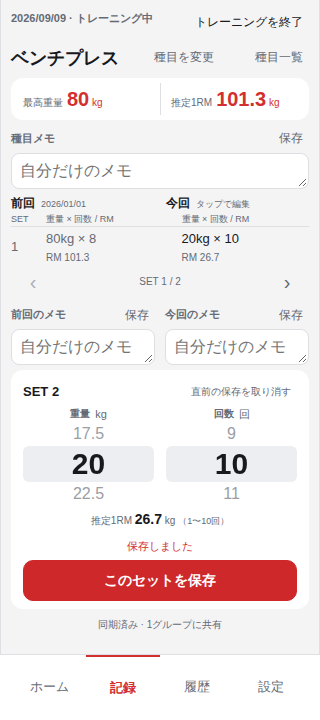
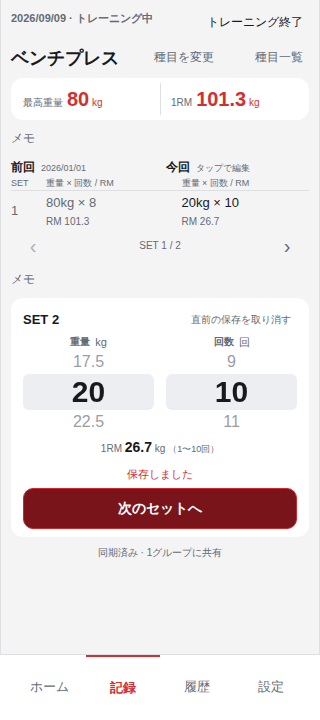
fix: 記録画面のメモ表示と操作文言を簡潔にする

diff --git a/frontend/src/features/session/inline-memo.tsx b/frontend/src/features/session/inline-memo.tsx
@@ -9,6 +9,7 @@ export function InlineMemo({
   name,
   userId,
   onSaved,
+  omitWhenEmpty = false,
 }: {
   title: string;
   path: string;
@@ -16,6 +17,7 @@ export function InlineMemo({
   name?: string;
   userId: string;
   onSaved?: () => void;
+  omitWhenEmpty?: boolean;
 }) {
   const key = `gotore:memo-input:v1:${userId}:${name ?? path}`;
   const [draft] = useState<Memo | null>(() => {
@@ -33,7 +35,11 @@ export function InlineMemo({
   const dirty = useRef(!!draft);
   const [busy, setBusy] = useState(false);
   const [error, setError] = useState("");
-  const [notice, setNotice] = useState("");
+  const [editing, setEditing] = useState(!!draft);
+  const field = useRef<HTMLTextAreaElement>(null);
+  useEffect(() => {
+    if (editing) field.current?.focus();
+  }, [editing]);
   useEffect(() => {
     if (initial) {
       if (!dirty.current) {
@@ -77,6 +83,7 @@ export function InlineMemo({
       setBusy(false);
     }
   }
+  if (omitWhenEmpty && !content.trim() && !editing && !error && !dirty.current) return null;
   return (
     <form
       className="inline-memo"
@@ -85,7 +92,6 @@ export function InlineMemo({
         if (!memo || busy) return;
         setBusy(true);
         setError("");
-        setNotice("");
         const sent = content;
         try {
           const saved = await api<Memo>(path, {
@@ -99,7 +105,7 @@ export function InlineMemo({
           setMemo(saved);
           dirty.current = false;
           localStorage.removeItem(key);
-          setNotice("保存済み");
+          setEditing(false);
           onSaved?.();
         } catch (reason) {
           setError(reason instanceof Error ? reason.message : "保存できません");
@@ -108,40 +114,60 @@ export function InlineMemo({
         }
       }}
     >
-      <div className="inline-memo-heading">
-        <label htmlFor={key}>{title}</label>
-        <span aria-live="polite">{notice}</span>
+      {!editing ? (
         <button
-          className="text-button"
-          type="submit"
-          disabled={!memo || busy}
-          aria-label={`${title}を保存`}
+          type="button"
+          className="memo-text"
+          aria-label={`${title}を編集`}
+          disabled={!memo}
+          onClick={() => setEditing(true)}
         >
-          {busy ? "保存中" : "保存"}
+          {content.trim() ? content : "メモ"}
         </button>
-      </div>
-      <textarea
-        id={key}
-        aria-label={title}
-        maxLength={1000}
-        rows={1}
-        disabled={busy || !memo}
-        placeholder="自分だけのメモ"
-        value={content}
-        onChange={(event) => {
-          setContent(event.target.value);
-          dirty.current = true;
-          setNotice("");
-          try {
-            localStorage.setItem(
-              key,
-              JSON.stringify({ content: event.target.value, revision: memo?.revision ?? 0 }),
-            );
-          } catch {
-            setError("端末へ保持できません。メモを保存してください。");
-          }
-        }}
-      />
+      ) : (
+        <>
+          <textarea
+            id={key}
+            aria-label={title}
+            maxLength={1000}
+            rows={2}
+            disabled={busy || !memo}
+            placeholder="メモ"
+            value={content}
+            ref={field}
+            onChange={(event) => {
+              setContent(event.target.value);
+              dirty.current = true;
+              try {
+                localStorage.setItem(
+                  key,
+                  JSON.stringify({ content: event.target.value, revision: memo?.revision ?? 0 }),
+                );
+              } catch {
+                setError("端末へ保持できません。メモを保存してください。");
+              }
+            }}
+          />
+          <div className="memo-actions">
+            <button
+              className="text-button"
+              type="button"
+              disabled={busy}
+              onClick={() => setEditing(false)}
+            >
+              閉じる
+            </button>
+            <button
+              className="text-button"
+              type="submit"
+              disabled={!memo || busy}
+              aria-label={`${title}を保存`}
+            >
+              {busy ? "保存中" : "保存"}
+            </button>
+          </div>
+        </>
+      )}
       {error && (
         <p className="error" role="alert">
           {error}

diff --git a/frontend/src/features/session/session-screen.tsx b/frontend/src/features/session/session-screen.tsx
@@ -201,7 +201,7 @@ function ActiveTraining({
           disabled={controller.busy}
           onClick={() => setFinishOpen(true)}
         >
-          トレーニングを終了
+          トレーニング終了
         </button>
       </div>
       {storageWarning && (
@@ -302,7 +302,7 @@ function ActiveTraining({
               </strong>
             </div>
             <div>
-              <span>推定1RM</span>
+              <span>1RM</span>
               <strong>
                 {context.data?.best_rm ?? "—"}
                 <small> kg</small>
@@ -318,6 +318,15 @@ function ActiveTraining({
               initial={context.data.memo}
               userId={userId}
               onSaved={context.retry}
+            />
+          )}
+          {context.data?.previous && (
+            <InlineMemo
+              key={context.data.previous.id}
+              title="前回のメモ"
+              path={`/workouts/${context.data.previous.id}/memo`}
+              userId={userId}
+              omitWhenEmpty
             />
           )}
           {context.error && (
@@ -410,19 +419,7 @@ function ActiveTraining({
               </button>
             </div>
           </div>
-          <div className="session-notes">
-            {context.data?.previous ? (
-              <InlineMemo
-                key={context.data.previous.id}
-                title="前回のメモ"
-                path={`/workouts/${context.data.previous.id}/memo`}
-                userId={userId}
-              />
-            ) : (
-              <p className="muted">前回のメモなし</p>
-            )}
-            <InlineMemo title="今回のメモ" path={`/workouts/${session.id}/memo`} userId={userId} />
-          </div>
+          <InlineMemo title="今回のメモ" path={`/workouts/${session.id}/memo`} userId={userId} />
           <form
             className="set-entry"
             onSubmit={(e) => {
@@ -530,7 +527,7 @@ function ActiveTraining({
                 />
               </div>
               <p className="rm-estimate">
-                推定1RM <strong>{rm ?? "—"}</strong> kg <span>（1〜10回）</span>
+                1RM <strong>{rm ?? "—"}</strong> kg <span>（1〜10回）</span>
               </p>
               <div className="save-feedback" aria-live="polite">
                 {feedback || (candidate ? <span className="best-badge">BEST更新候補</span> : "")}
@@ -539,7 +536,7 @@ function ActiveTraining({
                 {controller.busy
                   ? "保存中…"
                   : input.editing === null
-                    ? "このセットを保存"
+                    ? "次のセットへ"
                     : "変更を保存"}
               </button>
             </fieldset>
@@ -613,7 +610,7 @@ function ActiveTraining({
       )}
       {finishOpen && (
         <Sheet
-          title="トレーニングを終了"
+          title="トレーニング終了"
           onClose={() => {
             if (!controller.busy) setFinishOpen(false);
           }}

diff --git a/frontend/src/app/v2.css b/frontend/src/app/v2.css
@@ -878,20 +878,24 @@
   min-width: 0;
   margin: 0;
 }
-.inline-memo-heading {
+.memo-text {
+  display: block;
+  width: 100%;
+  min-height: 28px;
+  padding: 3px 0;
+  border: 0;
+  background: transparent;
+  color: var(--muted);
+  text-align: left;
+  font-size: 12px;
+  line-height: 1.6;
+  white-space: pre-wrap;
+  overflow-wrap: anywhere;
+}
+.memo-actions {
   display: flex;
-  align-items: center;
-  gap: 4px;
-  min-height: 26px;
-}
-.inline-memo-heading label {
-  font-size: 11px;
-  color: var(--muted);
-  flex: 1;
-}
-.inline-memo-heading span {
-  font-size: 10px;
-  color: var(--muted);
+  justify-content: flex-end;
+  gap: 8px;
 }
 .recording-view .inline-memo textarea {
   display: block;
@@ -901,16 +905,6 @@
   resize: vertical;
   font-size: 16px;
   line-height: 24px;
-}
-.session-notes {
-  display: grid;
-  grid-template-columns: 1fr 1fr;
-  gap: 10px;
-}
-.session-notes > p {
-  font-size: 11px;
-  align-self: center;
-  margin: 0;
 }
 .recording-view .comparison-heading {
   margin: 0;

diff --git a/frontend/tests/e2e/membership.spec.ts b/frontend/tests/e2e/membership.spec.ts
@@ -70,9 +70,7 @@ for (const owner of [true, false]) {
       await expect(page.getByRole("heading", { name: "ホーム", exact: true })).toBeVisible();
       await navigate(page, "記録");
       await expect(page.getByRole("heading", { name: "スクワット", exact: true })).toBeVisible();
-      await expect(
-        page.getByRole("button", { name: "このセットを保存", exact: true }),
-      ).toBeEnabled();
+      await expect(page.getByRole("button", { name: "次のセットへ", exact: true })).toBeEnabled();
     }
     expect(await page.evaluate(() => document.documentElement.scrollWidth <= innerWidth)).toBe(
       true,

diff --git a/frontend/tests/e2e/workout-reuse.spec.ts b/frontend/tests/e2e/workout-reuse.spec.ts
@@ -20,7 +20,7 @@ for (const ongoing of [false, true]) {
     await page.route("**/api/workouts?**", (route) => route.fulfill({ json: [original] }));
     if (ongoing) {
       await startTraining(page);
-      await page.getByRole("button", { name: "このセットを保存", exact: true }).click();
+      await page.getByRole("button", { name: "次のセットへ", exact: true }).click();
       await expect(page.getByText("保存しました", { exact: true })).toBeVisible();
     }
     await openRecord(page);

diff --git a/progress.md b/progress.md
@@ -663,3 +663,20 @@
 - テスト方針・修正経緯: キューは未実装で失敗するテストから実装（最終8件）。UIは改修と並行してE2Eを追加。初回全E2Eは38/40成功で、取消ボタン追加時の11pxのはみ出しと、下書きの遅延保存前に比較していたテストを修正して再検証した。途中のE2E起動の自動承認処理がタイムアウトしたが、許可された再試行で実行できた。
 - 未解決事項: 実機の操作感・OSキーボード・触覚・ホーム画面起動は未検証。アプリを閉じた間の送信は保証せず、未送信分は次回起動時に再開する。終了時は未送信分の反映を確認する。元からのnext-env.d.ts・未追跡資料はコミットに含めない。マージ・本番操作は実施しない。
 - 次のアクション: 変更前後の画像付きPRを公開し、CIと実機での操作感を確認する。
+
+## 2026-09-09 05:22 JST
+- 変更内容: ユーザーの追加指示に従い、メモを通常本文として表示しタッチで編集、種目メモ直下に前回の本文がある場合だけ表示する方針を仕様へ反映。表示語を「1RM」「次のセットへ」「トレーニング終了」へ統一する。
+- 目的: 記録中の説明・枠・入力欄の強調を減らし、短い文言で次の操作へ進めるようにする。
+- 影響範囲・関連ファイル: frontend/src/features/session/、frontend/src/app/v2.css、関連E2E、docs/gotore-v2-spec.md、docs/ui-copy.md、task.md。公開中PR #60へ追加する。メモの公開範囲・保存先、セット保存処理は変えない。
+- テスト方針: 本文表示・タッチ編集・前回メモの位置と空欄省略・新しいボタン文言のE2Eを先に追加。保存・復元・競合とモバイル寸法は既存回帰で確認する。
+- 未解決事項: UI変更・画像更新・検証は実施中。追加migrationは不要。
+- 次のアクション: 通常表示と編集状態を実装し、既存PRの本文と画像を更新する。
+
+## 2026-09-09 05:29 JST
+- 変更内容: メモを控えめな本文表示へ変更し、タッチ時だけ編集欄を開く。空の入力導線は「メモ」、前回メモは本文がある場合だけ種目メモ直下に表示。「1RM」「次のセットへ」「トレーニング終了」へ表示語を変更し、PR #60用の画面画像を更新した。
+- 目的: メモの枠・説明を減らし、記録中に内容と次の操作を読み取りやすくする。
+- 影響範囲・関連ファイル: frontend/src/features/session/、frontend/src/app/v2.css、frontend/tests/e2e/、docs/gotore-v2-spec.md、docs/ui-copy.md、docs/images/session-input-flow/、task.md。メモの公開範囲・revision・下書き保持とバックグラウンド保存は維持。API・DB変更なし。
+- 検証結果: 先行追加したメモE2Eが未実装で失敗することを確認後に実装。最終make check成功（専用gotore_v2_test DB、backend118件・frontend単体29件、lint/build）。make test-e2eと同じfrontendのPLAYWRIGHT_REUSE_SERVER=1 bun run test:e2eは全41件成功。本文表示・編集/保存・空の前回メモ省略・下書き復元/競合・共有・320/390/430pxの寸法を確認。更新画像を目視確認し、git diff --check成功。
+- 修正経緯: 初回全E2Eは40/41件成功。記録管理テストの汎用workoutsモックがmemo APIにも配列を返していたため、memo用の既存モックへ委譲するよう修正し、全件再実行した。
+- 未解決事項: 実機のキーボード・触覚・操作感は未検証。元からのnext-env.d.ts・未追跡資料はコミット対象外。マージ・本番操作は行わない。
+- 次のアクション: 既存PR #60へ追加コミットをpushし、本文と画像を更新してCI・レビューへ回す。

diff --git a/docs/gotore-v2-spec.md b/docs/gotore-v2-spec.md
@@ -27,7 +27,7 @@
 ## UIと既存機能
 
 - 下部ナビはホーム・記録・履歴・設定。ホームのカード選択は画面内状態で保持し、カード切替で戻る履歴を増やさない。詳細/一覧/招待は対象グループを保持する。
-- 重量・回数は指の移動中に連続更新するホイールと数値タップによる直接入力。2.5kg以外の既存値を丸めない。通常の320/390/430px幅・720px以上の高さでは、入力・保存・メモ・終了をページスクロールなしで操作できる構成にする。比較セットはページ切替とし、種目メモ・前回/今回のセッションメモは常時表示する。文字拡大・キーボード・長文には必要なスクロールを残す。
+- 重量・回数は指の移動中に連続更新するホイールと数値タップによる直接入力。2.5kg以外の既存値を丸めない。通常の320/390/430px幅・720px以上の高さでは、入力・保存・メモ・終了をページスクロールなしで操作できる構成にする。比較セットはページ切替とする。メモは枠を強調せず本文として表示し、タッチで編集する。種目メモの直下には前回のメモの本文がある場合だけ表示し、説明ラベルや空欄は出さない。今回のメモの入力導線も短い「メモ」で維持する。文字拡大・キーボード・長文には必要なスクロールを残す。
 - 送信待ちはユーザー別に端末へ保持し、通信失敗・再起動後も復元・再送する。画面では端末への追加とサーバー同期完了を区別する。編集・取消も同じ順序で送り、共有とBESTの確定はサーバー応答を待つ。終了は未送信分の反映を確認してから行う。
 - 別端末の更新と競合したときは未送信データを保持して送信を停止し、確認なしに上書き・破棄しない。端末への永続化に失敗した場合は追加成功と扱わない。
 - 招待はコード入力→名前と人数の確認→参加。確認では所属を変えず、参加時に再検証する。未実装の招待リンクの案内は削る。
@@ -39,3 +39,5 @@
 先行テストで多グループ共有・再開・再送・同時更新・終了・退出/再参加・日付境界・BEST訂正・私的メモを確認する。make check、専用_test DBで統合テスト、ローカルSupabaseでmake test-e2e、320/390/430pxの画像と文字拡大を検証する。実機の操作感は別途実機で確認し、自動テストで代替したと記載しない。
 
 追加migrationをAPIより先に適用する。本番への反映・マージは今回の実装と別操作。#8・#30の担当を勝手に変更せず、開始時の公開中PRは0件であることを確認した。元資料と開始時からの未コミット変更は一括コミットしない。
+
+記録画面の表示名は「1RM」「次のセットへ」「トレーニング終了」とする。「次のセットへ」は現在のセットを端末へ追加して次の入力へ進む操作で、送信待ちキュー・バックグラウンド同期の規則は変えない。メモの公開範囲・保存先は変えず、読み上げ用の識別名は保持する。
